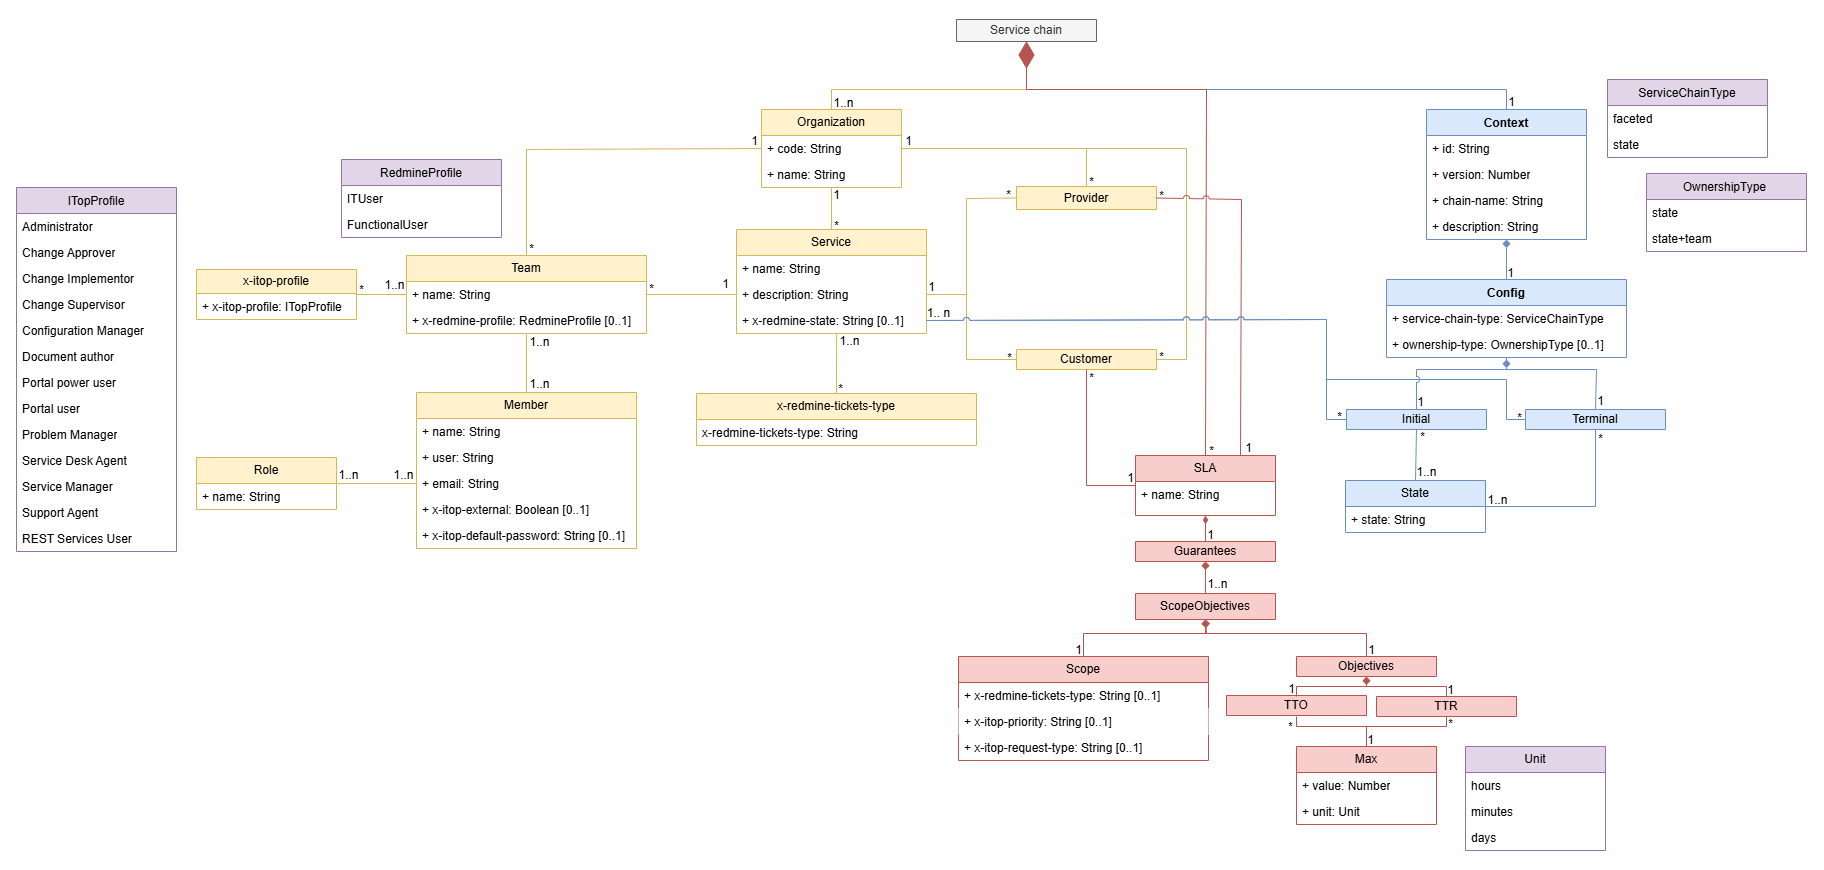
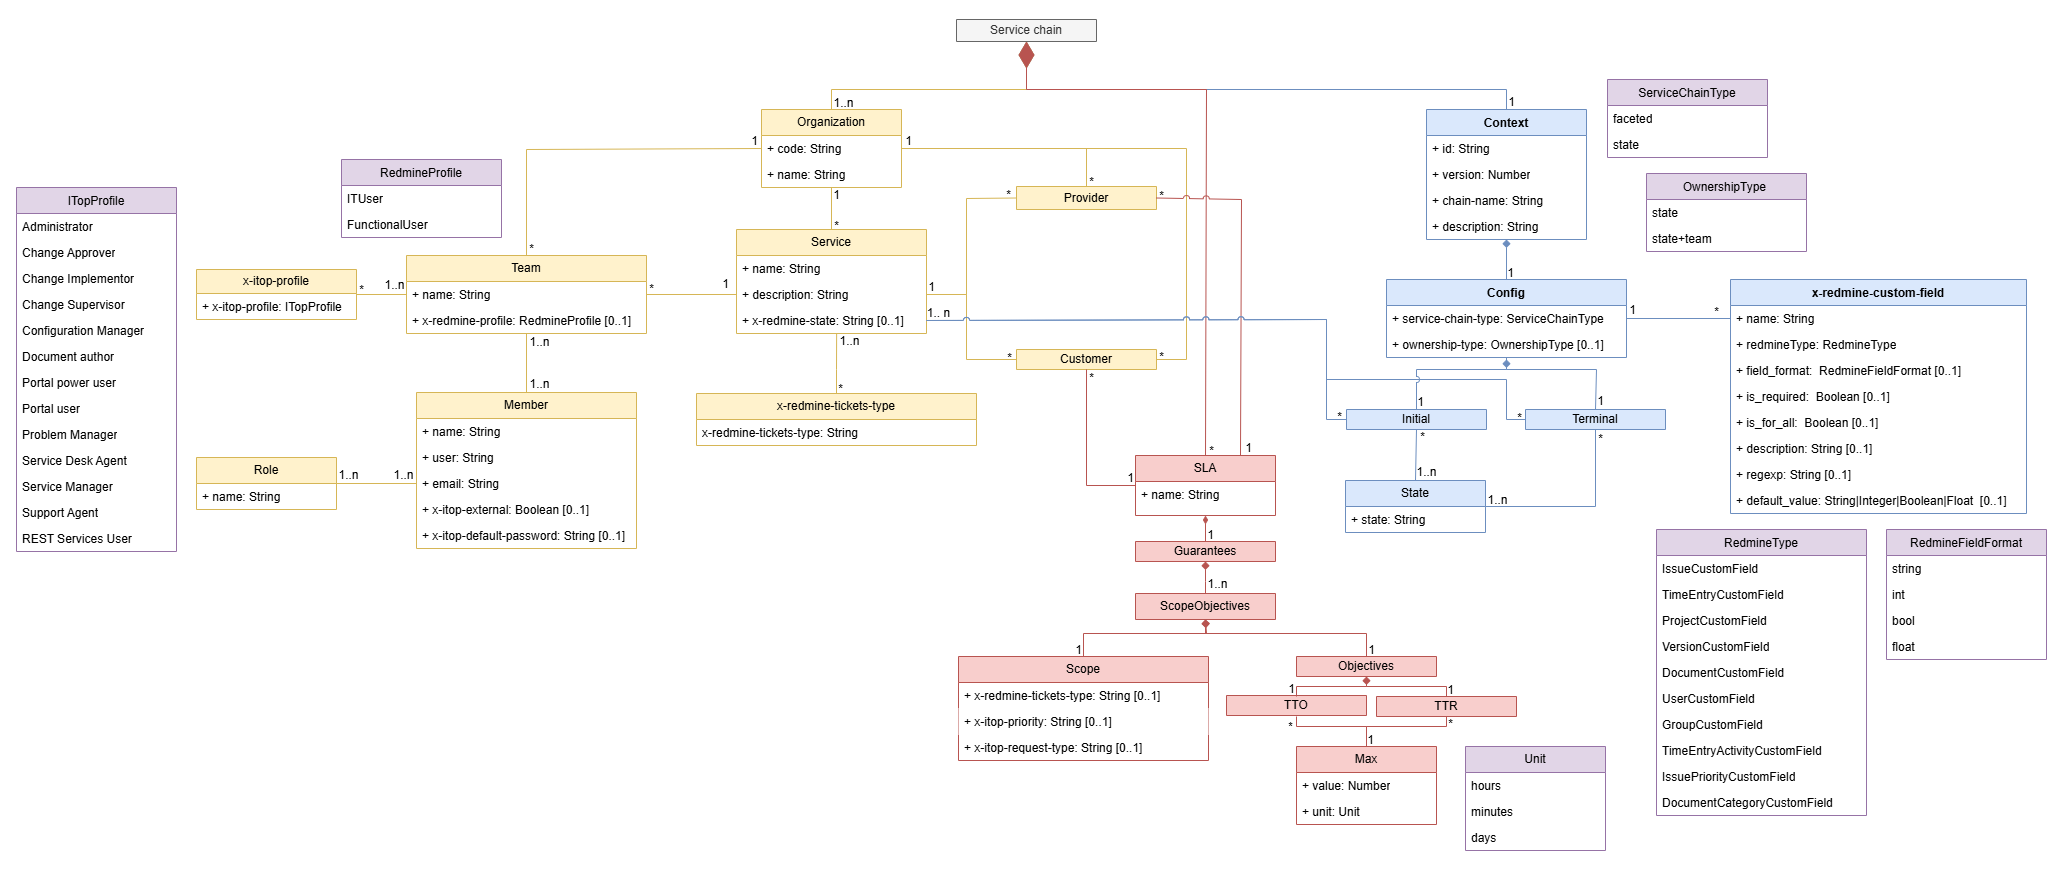
doc: add Redmine Custom field property

diff --git a/docs/Specification.md b/docs/Specification.md
@@ -138,6 +138,7 @@ This section of the yaml defines the service chain configuration. It is essentia
 | service-chain-type | [ServiceChainType](#servicechaintype)                            | **Required**      | Type of service chain. |
 | initial           | [ServiceStateObject[]](#servicestateobject) | Optional      | List of initial services and their states. It is not optional if chain type is state. |
 | terminal          | [ServiceStateObject[]](#servicestateobject) | Optional      | List of terminal services and their states. It is not optional if chain type is state. |
+| x-redmine-custom-fields          | [RedmineCustomFieldObject[]](#redminecustomfieldobject) | Optional      | List of Redmine custom fields that will be added to your Redmine's entities. |
 | ownership-type    | [OwnershipType](#ownershiptype)                            | Optional      | Defines the ownership type. By default its value is 'state' It is not optional if chain type is state. |
 | initial-sla      | `String`                            | Optional      | It is the **name** of the initial SLA assigned to the service chain. It will be the SLA taken into account when a new issue is created and it has not changed its state. It is not optional if chain type is state. |
 
@@ -151,6 +152,7 @@ This section of the yaml defines the service chain configuration. It is essentia
   terminal: ServiceStateObject[]
   ownership-type: "state+team"
   initial-sla: "REVIEW_SHIP_SLA"
+  x-redmine-custom-fields: RedmineCustomFieldObject[]
 ```
 
 ##### Configuration type faceted example
@@ -188,6 +190,56 @@ This section of the yaml defines the service chain configuration. It is essentia
 
 This means that the service with the name "Review ship" has 2 terminal or initial states (depending on where this ServiceStateObject is). Theese states are "STUDYING" and "DRAFT".
 
+### `RedmineCustomFieldObject`
+
+| Field name     | Field type                          | Required/Optional | Description |
+|---------------|------------------------------------|-------------------|-------------|
+| name         | `String`                           | **Required**       | Name of the Redmine custom field. |
+| redmineType  |  [RedmineType](#redminetype)                      | **Required**       | The type of the Redmine custom field. |
+| field_format | [RedmineFieldFormat](#redminefieldformat)              | Optional           | Defines the format of the field. By default its value is ***string***. |
+| is_required  | `Boolean`                         | Optional           | Indicates whether the field is required or not. By default its value is ***false***. |
+| is_for_all   | `Boolean`                         | Optional           | Specifies if the field applies to all new objects from the Type specified in RedmineType. By default its value is ***true***. |
+| description  | `String`                           | Optional           | Additional description of the custom field. By default its value is ***...***. |
+| regexp       | `String`                           | Optional           | Regular expression pattern to validate the field input. ***It can only have a value if  field_format is string***|
+| default_value | `String\|Integer\|Boolean\|Float` | Optional           | Default value for the custom field if not specified. Take into account that its value must be the same type as field_format. |
+
+#### RedmineCustomFieldObject example
+
+```yaml
+    name: 'Phone'
+    field_format: 'string'
+    redmineType: 'UserCustomField'
+    regexp: '(?:\+34\s?)?(6\d{8}|7\d{8}|8\d{8}|9\d{8})'
+```
+
+### `RedmineType`
+
+This property is related to the entity in which we want to include the new custom field. Redmine only allows the following values.
+
+| Value  | Description  |  
+|-------- |------------- |  
+| `IssueCustomField`   | The custom field will be added as a property to Redmine issues. |  
+| `TimeEntryCustomField`  | The custom field will be added as a property to Redmine Time entries. |
+| `ProjectCustomField`  | The custom field will be added as a property to Redmine projects. |
+| `VersionCustomField`  | The custom field will be added as a property to Redmine version objects. |
+| `DocumentCustomField`  | The custom field will be added as a property to Redmine document objects. |
+| `UserCustomField`  | The custom field will be added as a property to Redmine users. |
+| `GroupCustomField`  | The custom field will be added as a property to Redmine groups. |
+| `TimeEntryActivityCustomField`  | The custom field will be added as a property to Redmine activities. |
+| `IssuePriorityCustomField`  | The custom field will be added as a property to Redmine issue priorities. |
+| `DocumentCategoryCustomField`  | The custom field will be added as a property to Redmine document categories. |
+
+### `RedmineFieldFormat`
+
+This property specifies the type of the custom field that you want to add to your Redmine entities. In the future we may add some more but until now only the following are supported.
+
+| Value  | Description  |  
+|-------- |------------- |  
+| `string`   | The custom field which will be added as a property to Redmine objects will be type ***String***. |  
+| `int`  | The custom field which will be added as a property to Redmine objects will be type ***Integer***. |
+| `bool`  | The custom field which will be added as a property to Redmine objects will be type ***Boolean***. |
+| `float`  | The custom field which will be added as a property to Redmine objects will be type ***Float***. |
+
 ### `OwnershipType`
 
 This property default value is 'state'. It has really strong implications in TTO and TTR calculations,
@@ -195,8 +247,8 @@ which implies that it is common for all issues created.
 
 | Value  | Description  |  
 |-------- |------------- |  
-| `state`   | Represents ownershiip-type state. It means that TTO is calculated as the sum of the times between each change of state and the moment the issue is assigned to a person. TTR is calculated as the sum of the times between each user assignation and each change of state. |  
-| `state+team`  | Represents ownershiip-type state+team. It means that TTO is calculated as the sum of the times between each group assignation and the moment the issue is assigned to a person. TTR is calculated as the sum of the times betwwen each user asignation and each group assignation plus the time between the last group assignation and the closing date. |
+| `state`   | Represents ownership-type state. It means that TTO is calculated as the sum of the times between each change of state and the moment the issue is assigned to a person. TTR is calculated as the sum of the times between each user assignation and each change of state. |  
+| `state+team`  | Represents ownership-type state+team. It means that TTO is calculated as the sum of the times between each group assignation and the moment the issue is assigned to a person. TTR is calculated as the sum of the times betwwen each user asignation and each group assignation plus the time between the last group assignation and the closing date. |
 
 ---
 
